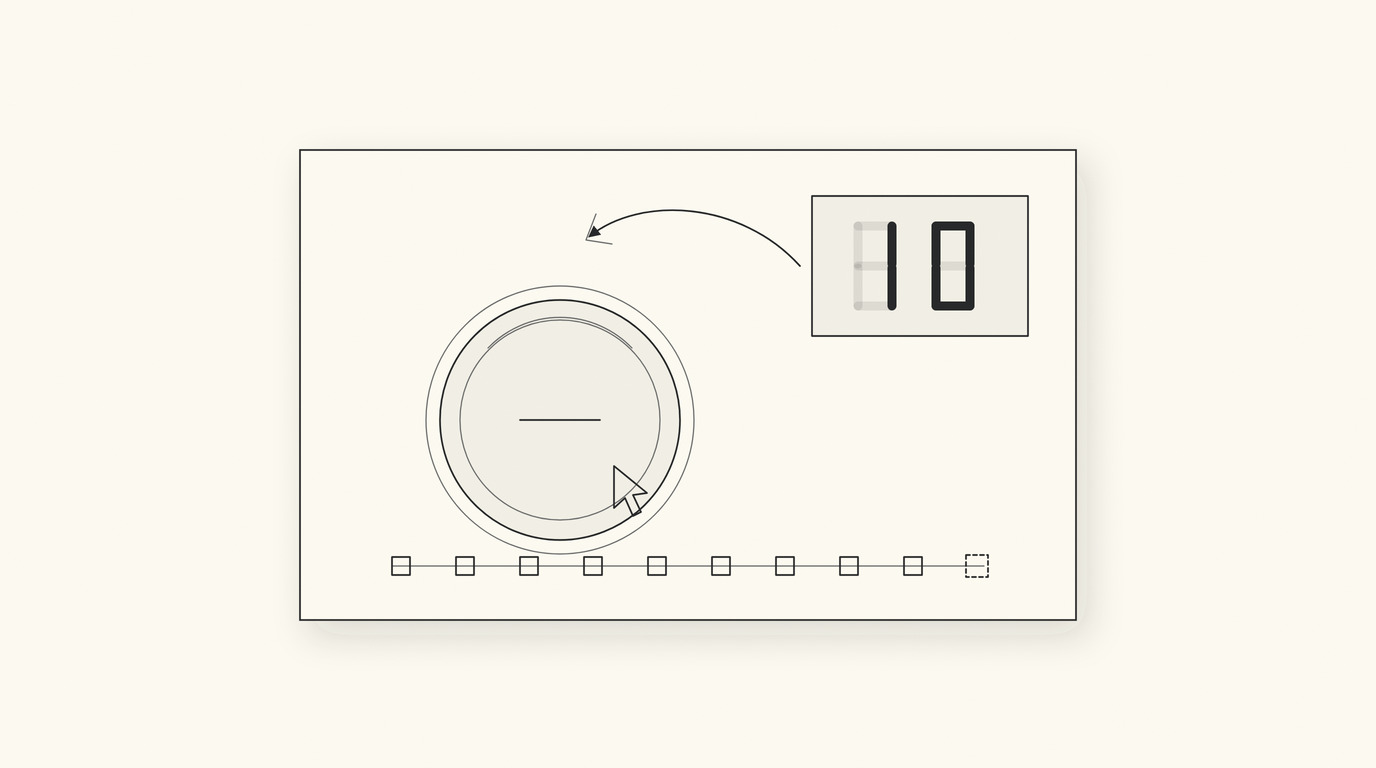
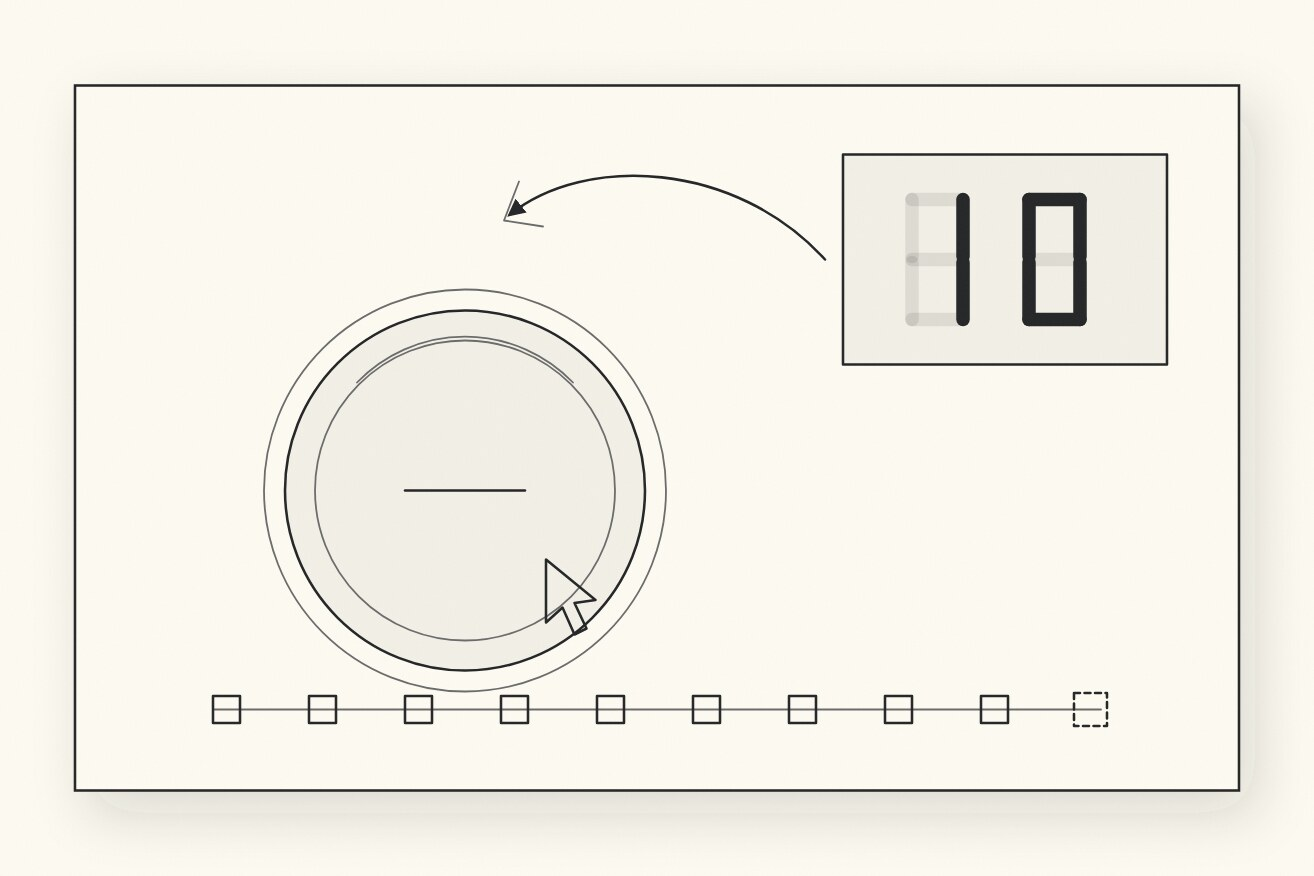
fix: update SVG dimensions and improve image fitting for project hero

diff --git a/styles.css b/styles.css
@@ -1497,9 +1497,11 @@ textarea {
 }
 
 .comp-media {
+  display: block;
   margin: 0 0 1.5rem;
   max-width: 640px;
   border: 1px solid rgba(37, 38, 39, 0.15);
+  overflow: hidden;
 }
 
 [data-theme="dark"] .comp-media {
@@ -1509,7 +1511,16 @@ textarea {
 .comp-media img {
   display: block;
   width: 100%;
-  height: auto;
+  height: 100%;
+  aspect-ratio: 3 / 2;
+  object-fit: cover;
+  filter: saturate(0.96);
+  transition: transform 0.5s ease, filter 0.5s ease;
+}
+
+.comp-media:hover img {
+  transform: scale(1.03);
+  filter: saturate(1.05);
 }
 
 .comp-links {
@@ -1590,6 +1601,14 @@ textarea {
 
 [data-theme="dark"] .project-image img {
   filter: grayscale(0.25) sepia(0.05) brightness(0.8);
+}
+
+[data-theme="dark"] .comp-media img {
+  filter: grayscale(0.25) sepia(0.05) brightness(0.8);
+}
+
+[data-theme="dark"] .comp-media:hover img {
+  filter: grayscale(0.25) sepia(0.05) brightness(0.88);
 }
 
 [data-theme="dark"] .top-nav {
@@ -1986,6 +2005,25 @@ textarea {
 
   .work-content:before {
     display: none;
+  }
+
+  #competitions {
+    padding: 3rem 1rem;
+  }
+
+  .comp-featured {
+    flex-direction: column;
+    gap: 1.5rem;
+    padding: 1.5rem;
+  }
+
+  .comp-place-badge {
+    width: 4rem;
+    height: 4rem;
+  }
+
+  .comp-place-num {
+    font-size: 2.2rem;
   }
 
   #contact {

diff --git a/projects/project-styles.css b/projects/project-styles.css
@@ -219,6 +219,10 @@ body {
 }
 .project-hero-img img { width: 100%; height: 100%; object-fit: cover; display: block; }
 
+/* Illustrated heroes are framed edge-to-edge, so they keep their own
+   proportions instead of being letterboxed like the photographic ones. */
+.project-hero-img--fit { height: auto; aspect-ratio: 7 / 4; }
+
 .img-placeholder {
   position: relative;
   width: 100%;
@@ -416,6 +420,7 @@ a { text-decoration: none; color: inherit; }
   }
   .toc-list { display: none; } /* hide jump-nav on mobile; keep stack + links */
   .project-hero-img { height: 240px; }
+  .project-hero-img--fit { height: auto; }
   .gallery-grid { grid-template-columns: 1fr; }
 }
 

diff --git a/projects/press-to-decrement.html b/projects/press-to-decrement.html
@@ -58,7 +58,7 @@
             <span class="project-eyebrow">Game jam · Interactive fiction</span>
             <p class="project-tagline">There is a button, and a number, and the number is ten.</p>
 
-            <div class="project-hero-img">
+            <div class="project-hero-img project-hero-img--fit">
                 <img src="../images/projects/press-to-decrement.jpg" alt="PRESS TO DECREMENT illustration">
             </div>
 
